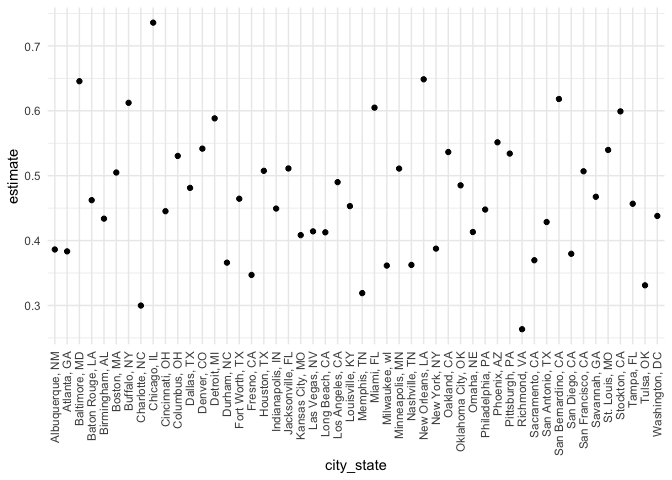
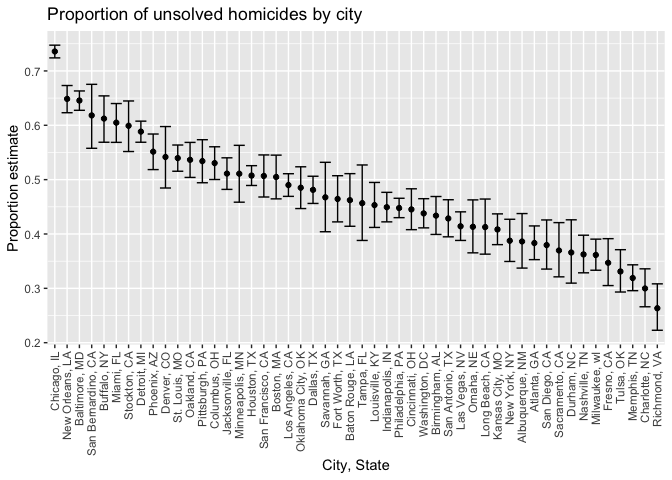
problem 2 completed

diff --git a/p8105_hw5_td2704.md b/p8105_hw5_td2704.md
@@ -2,13 +2,13 @@ P8105 Homework 5 \[td2704\]
 ================
 
 ``` r
-theme_set(theme_minimal() + theme(legend.position = "bottom"))
-options(
-  ggplot2.continuous.colour = "viridis",
-  ggplot2.continuous.fill = "viridis"
-)
-scale_colour_discrete = scale_color_viridis_d
-scale_fill_discrete = scale_fill_viridis_d
+# theme_set(theme_minimal() + theme(legend.position = "bottom"))
+# options(
+#   ggplot2.continuous.colour = "viridis",
+#   ggplot2.continuous.fill = "viridis"
+# )
+# scale_colour_discrete = scale_color_viridis_d
+# scale_fill_discrete = scale_fill_viridis_d
 ```
 
 ## Problem 1
@@ -215,11 +215,73 @@ plot them.
 
 ``` r
 test_on_all_cities_df %>%
-  mutate(city_state = fct_reorder(city_state, estimate)) %>%
-  ggplot(aes(x=city_state, y=estimate)) +
+  ggplot(aes(x=fct_reorder(city_state, desc(estimate)), y=estimate)) +
   geom_point() +
-  #geom_errorbar(aes(ymin=conf.low,ymax=conf.high)) +
-  theme(axis.text.x = element_text(angle=90, vjust = 0.5, hjust = 1))
+  geom_errorbar(aes(ymin=conf.low,ymax=conf.high)) +
+  theme(axis.text.x = element_text(angle=90, vjust = 0.5, hjust = 1)) +
+  xlab("City, State") +
+  ylab("Proportion estimate") +
+  ggtitle("Proportion of unsolved homicides by city")
 ```
 
 ![](p8105_hw5_td2704_files/figure-gfm/unnamed-chunk-9-1.png)<!-- -->
+
+## Problem 2
+
+``` r
+experiment_df = 
+  tibble(
+    files = list.files("data/zip_data/")
+    ) %>%
+  mutate(
+    read_data = purrr::map(str_c("data/zip_data/",files),read_csv)
+  ) %>%
+  unnest(cols = read_data) %>%
+  mutate(
+    subject = substr(files,1,6),
+    arm = substr(files,1,3)
+  ) %>%
+  relocate(subject, arm)
+
+experiment_df
+```
+
+    ## # A tibble: 20 × 11
+    ##    subject arm   files   week_1 week_2 week_3 week_4 week_5 week_6 week_7 week_8
+    ##    <chr>   <chr> <chr>    <dbl>  <dbl>  <dbl>  <dbl>  <dbl>  <dbl>  <dbl>  <dbl>
+    ##  1 con_01  con   con_01…   0.2   -1.31   0.66   1.96   0.23   1.09   0.05   1.94
+    ##  2 con_02  con   con_02…   1.13  -0.88   1.07   0.17  -0.83  -0.31   1.58   0.44
+    ##  3 con_03  con   con_03…   1.77   3.11   2.22   3.26   3.31   0.89   1.88   1.01
+    ##  4 con_04  con   con_04…   1.04   3.66   1.22   2.33   1.47   2.7    1.87   1.66
+    ##  5 con_05  con   con_05…   0.47  -0.58  -0.09  -1.37  -0.32  -2.17   0.45   0.48
+    ##  6 con_06  con   con_06…   2.37   2.5    1.59  -0.16   2.08   3.07   0.78   2.35
+    ##  7 con_07  con   con_07…   0.03   1.21   1.13   0.64   0.49  -0.12  -0.07   0.46
+    ##  8 con_08  con   con_08…  -0.08   1.42   0.09   0.36   1.18  -1.16   0.33  -0.44
+    ##  9 con_09  con   con_09…   0.08   1.24   1.44   0.41   0.95   2.75   0.3    0.03
+    ## 10 con_10  con   con_10…   2.14   1.15   2.52   3.44   4.26   0.97   2.73  -0.53
+    ## 11 exp_01  exp   exp_01…   3.05   3.67   4.84   5.8    6.33   5.46   6.38   5.91
+    ## 12 exp_02  exp   exp_02…  -0.84   2.63   1.64   2.58   1.24   2.32   3.11   3.78
+    ## 13 exp_03  exp   exp_03…   2.15   2.08   1.82   2.84   3.36   3.61   3.37   3.74
+    ## 14 exp_04  exp   exp_04…  -0.62   2.54   3.78   2.73   4.49   5.82   6      6.49
+    ## 15 exp_05  exp   exp_05…   0.7    3.33   5.34   5.57   6.9    6.66   6.24   6.95
+    ## 16 exp_06  exp   exp_06…   3.73   4.08   5.4    6.41   4.87   6.09   7.66   5.83
+    ## 17 exp_07  exp   exp_07…   1.18   2.35   1.23   1.17   2.02   1.61   3.13   4.88
+    ## 18 exp_08  exp   exp_08…   1.37   1.43   1.84   3.6    3.8    4.72   4.68   5.7 
+    ## 19 exp_09  exp   exp_09…  -0.4    1.08   2.66   2.7    2.8    2.64   3.51   3.27
+    ## 20 exp_10  exp   exp_10…   1.09   2.8    2.8    4.3    2.25   6.57   6.09   4.64
+
+Now let’s create a spaghetti plot showing observations on each subject
+over time.
+
+``` r
+experiment_df %>%
+  pivot_longer(
+    week_1:week_8,
+    names_to = "week_number",
+    values_to = "observations"
+  ) %>%
+  ggplot(aes(x=week_number,y=observations)) +
+  geom_line(aes(group=subject,color=arm))
+```
+
+![](p8105_hw5_td2704_files/figure-gfm/unnamed-chunk-11-1.png)<!-- -->
